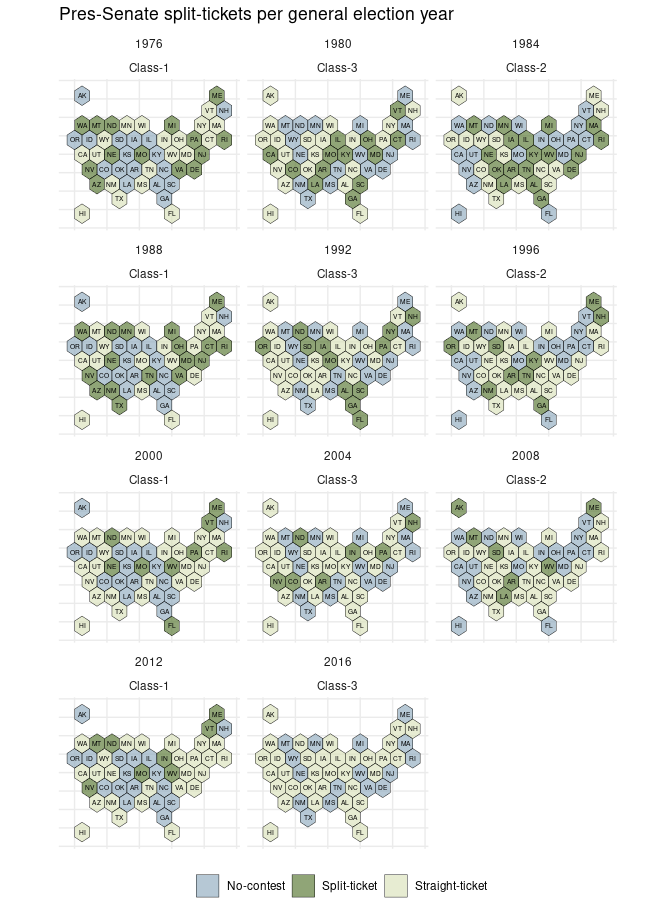
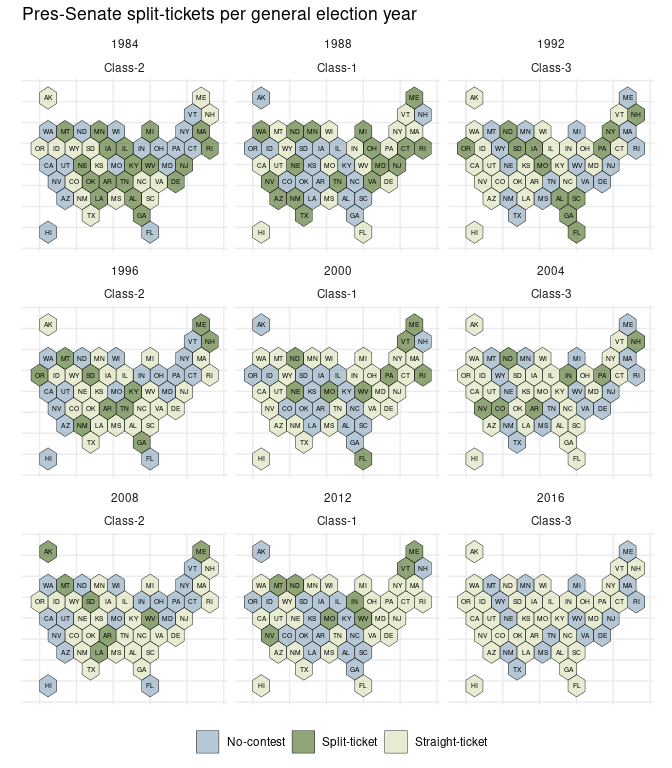
re

diff --git a/README.md b/README.md
@@ -209,8 +209,8 @@ vvo <- lapply(c('house', 'senate'), function(x) {
     filter(congress > con & chamber != 'President') }) #66
 ```
 
-    ## [1] "/tmp/RtmpyqbsmC/Hall_members.csv"
-    ## [1] "/tmp/RtmpyqbsmC/Sall_members.csv"
+    ## [1] "/tmp/RtmphaMl6P/Hall_members.csv"
+    ## [1] "/tmp/RtmphaMl6P/Sall_members.csv"
 
 ``` r
 congress <- vvo %>%
@@ -559,6 +559,7 @@ df <- data.frame(year, class)
 uspols::xsf_TileOutv10 %>%
   left_join(splits, by = 'state_abbrev') %>%
   left_join(df, by = 'year') %>%
+  filter(year > 1980) %>% # cleaner viz
   
   mutate (split1 = case_when (split == 0 ~ 'Straight-ticket',
                              split == 1 ~ 'Split-ticket',
@@ -579,7 +580,7 @@ uspols::xsf_TileOutv10 %>%
 
   scale_fill_manual(values = c('#8faabe', '#55752f', 
                                '#dae2ba')) + #, 
-  facet_wrap(~year + class, ncol = 3) +
+  facet_wrap(~year + class) +
   theme_minimal() + 
   theme_guide() +
   theme(legend.position = 'bottom') +
